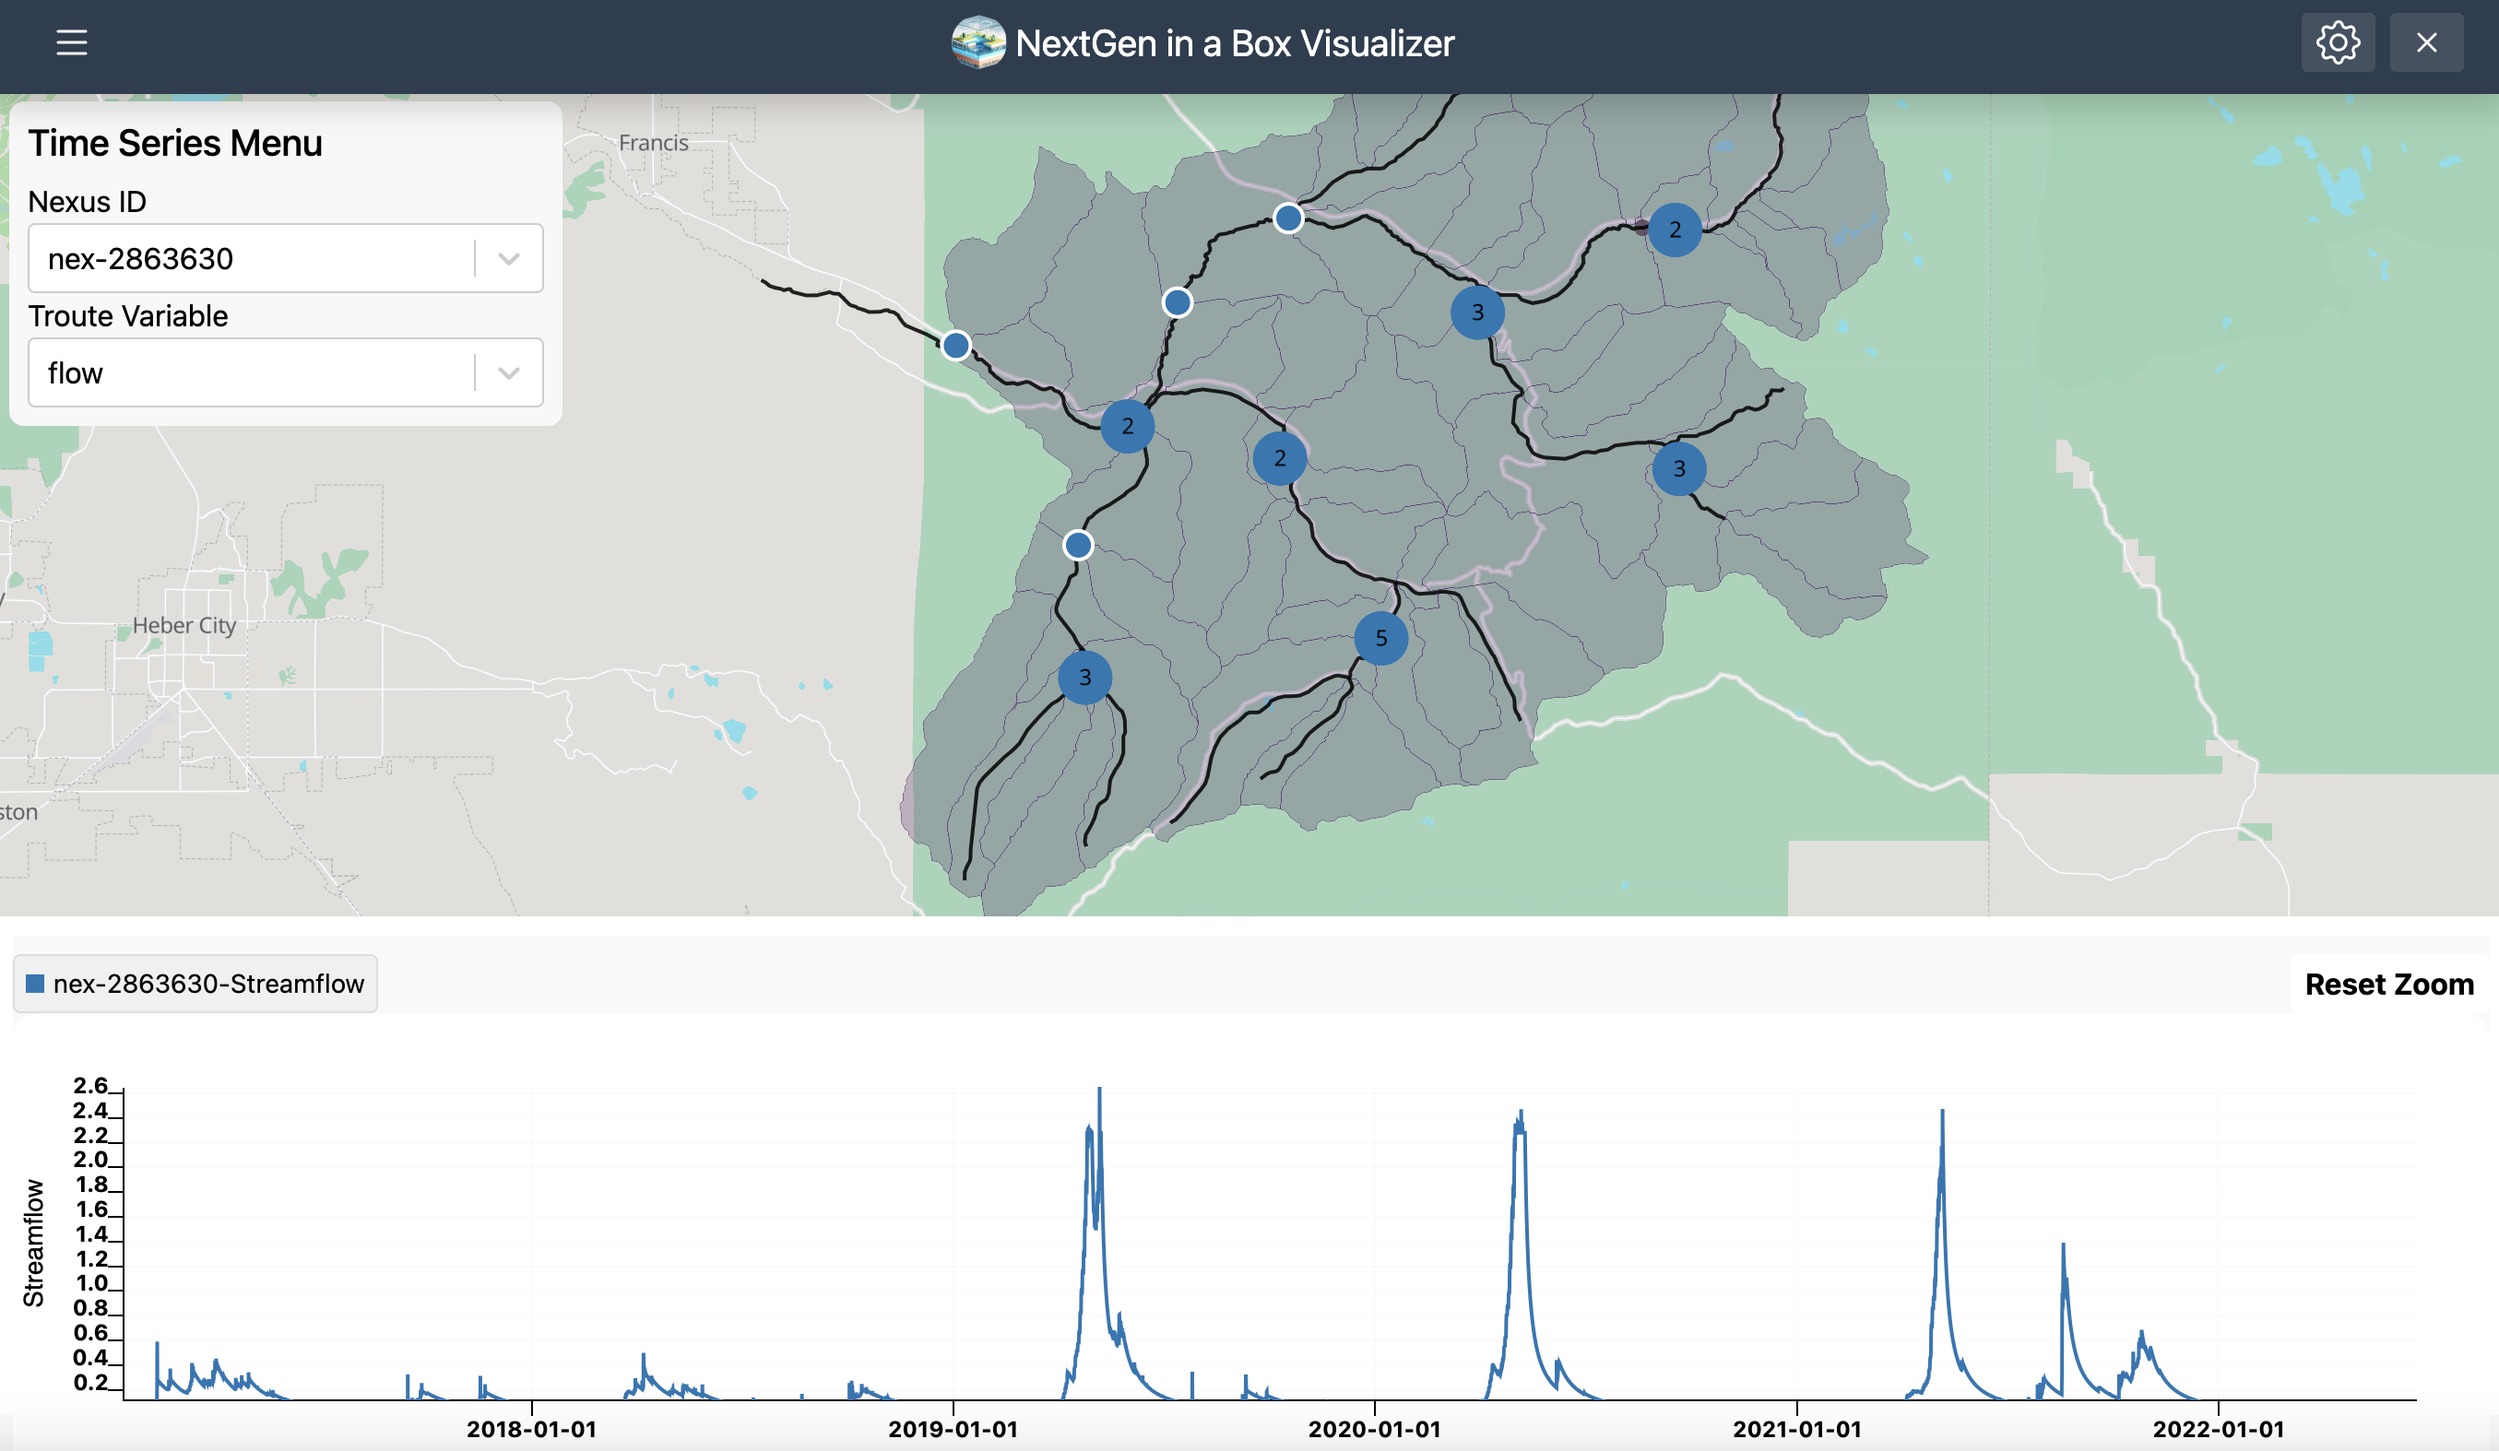
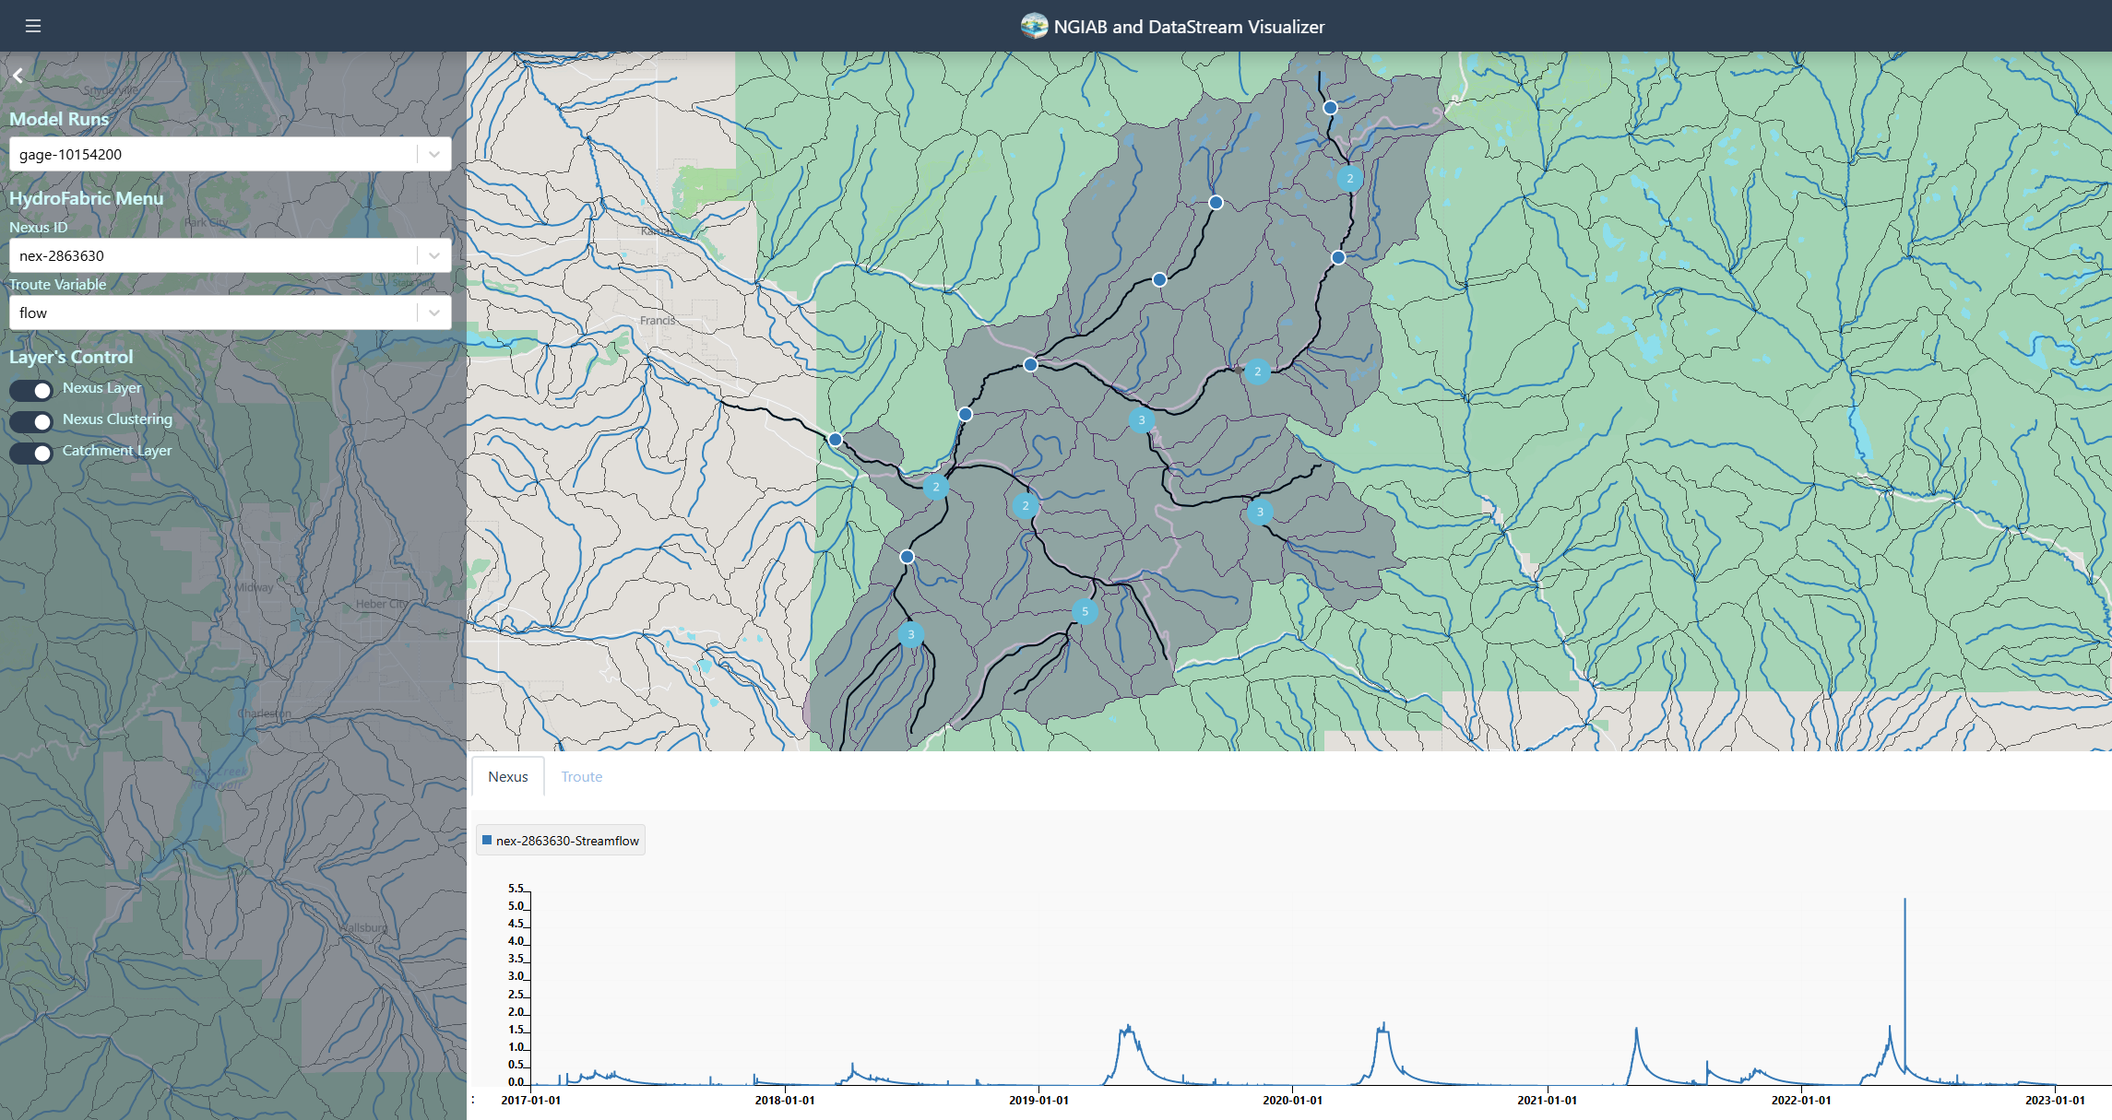
Updated visualizer images and added hydroshare link for provo basin case study (#334)

diff --git a/README.md b/README.md
@@ -23,9 +23,15 @@
 - **Evaluation Tools**: Integrated TEEHR evaluation capabilities
 - **Visualization**: Built-in support for output visualization via Tethys Platform
 
-| | | |
-| --- | --- | --- |
-| ![Nexus Output](./docs/img/Provo_GeoSpatial.png) | ![Catchment Time Series](./docs/img/Provo_catchments.png) | ![Nexus Time Series](./docs/img/Provo_nexus_point.png) |
+| | |
+| --- | --- | 
+| ![Nexus Output](./docs/img/Provo_GeoSpatial.png) | ![Catchment Time Series](./docs/img/Provo_catchments.png) |
+
+| | |
+| --- | --- | 
+| ![Teehr Plot](./docs/img/Provo_nexus_point.png) | ![Teehr Metrics](./docs/img/Provo_teehr_metrics.png) |
+
+> 🔗 For more information on this case study, including calibration files, input data, and setup details, visit the [HydroShare resource page for the Provo River near Woodland NGIAB Case Study](https://www.hydroshare.org/resource/88e0ebf2719c492381efcb27fba71032/).
 
 ## Navigating this repository
 
